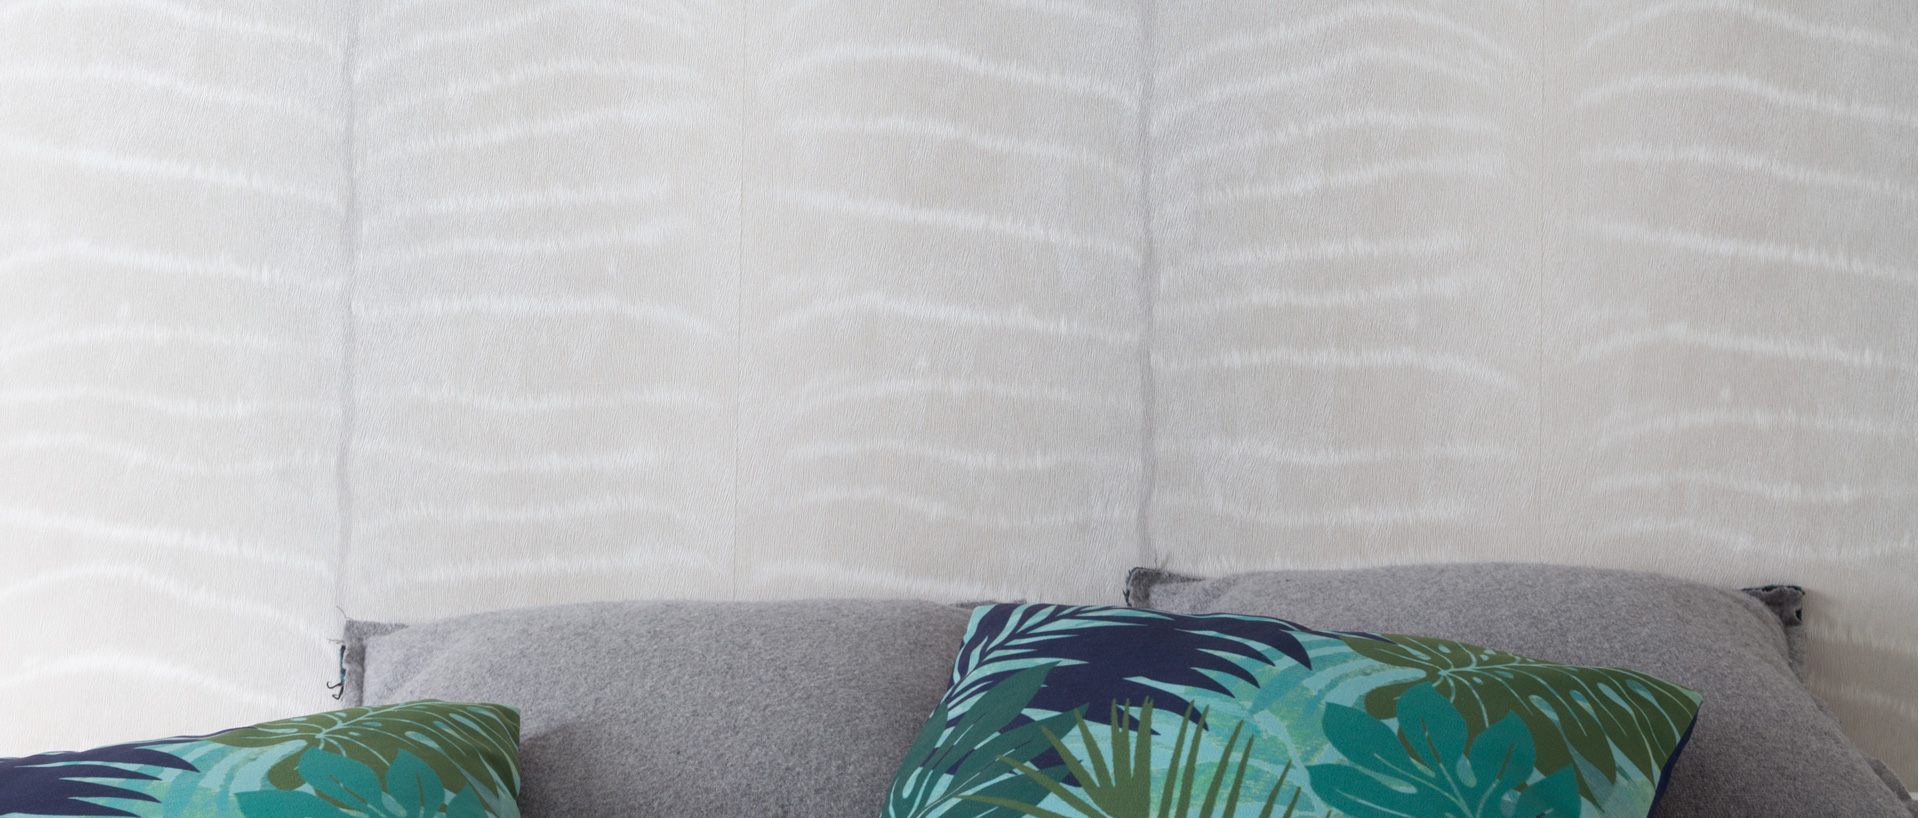
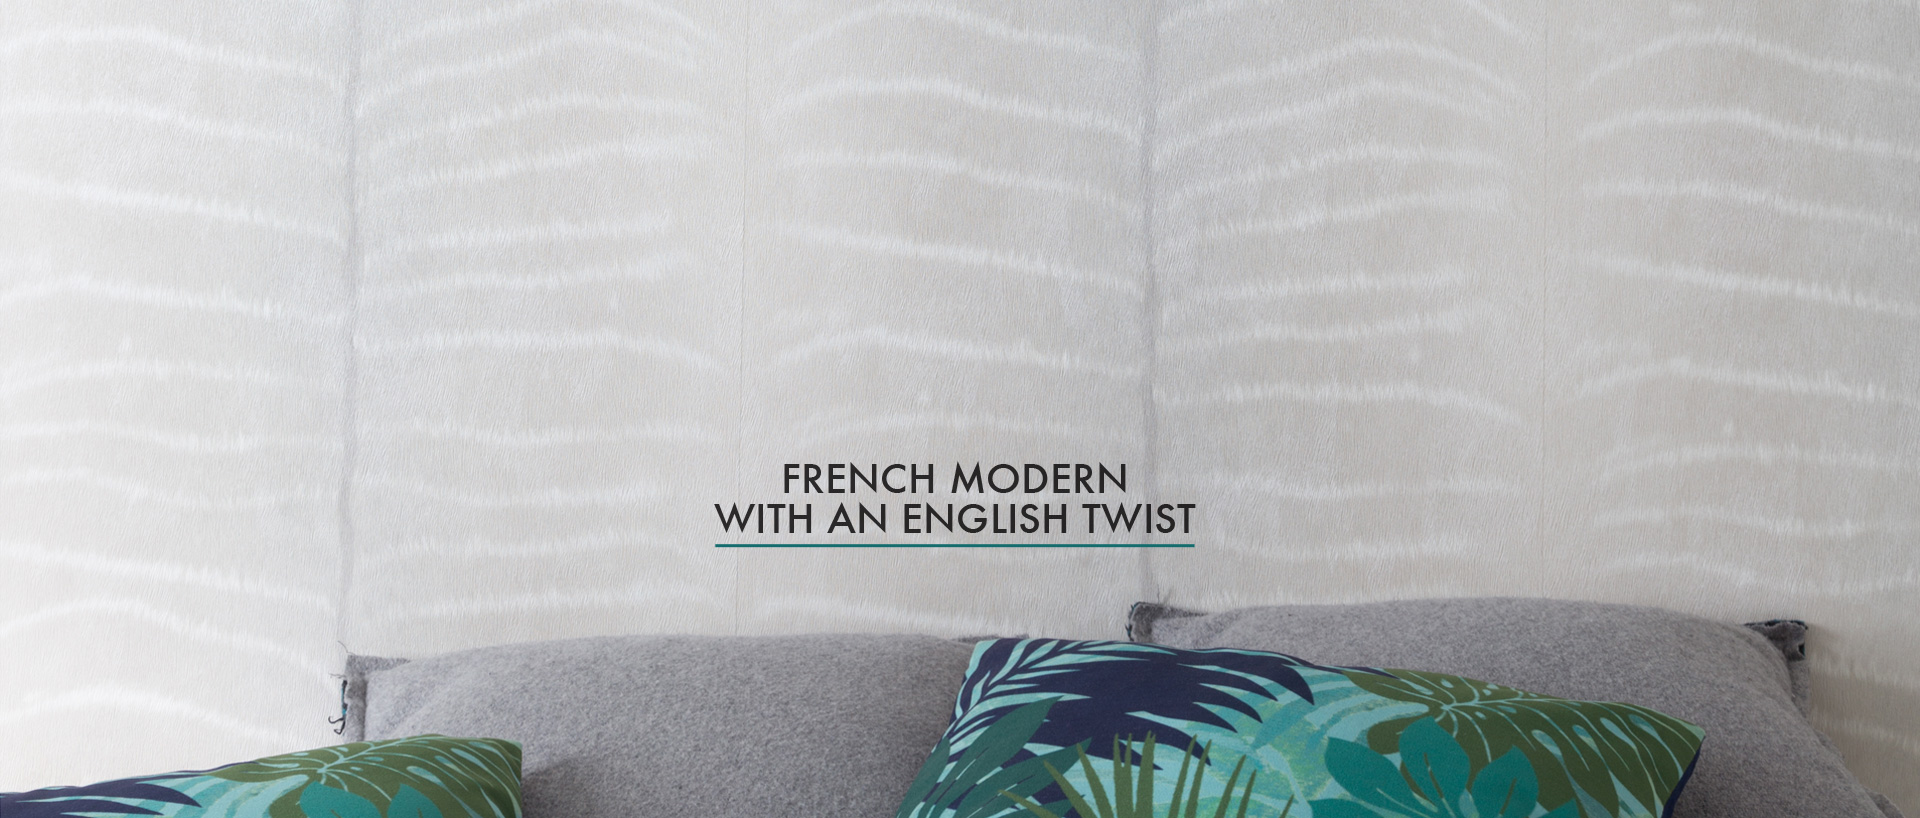
projects

Changed region(s): [[0.0, 0.5501, 1.0, 1.0], [0.9688, 0.9169, 1.0, 1.0]]

diff --git a/app/public/styles/main.css b/app/public/styles/main.css
@@ -462,6 +462,7 @@ footer{ width:100%; float:left;}
 .showcase h5{ color:#cbcbc9; font-size:15px; font-weight:800; letter-spacing:2px;}
 .showcase .shape{font-family:jaapokki; color:#fff; font-size:30px; margin:40px 0;}
 .showcase .portfolio{ width:100%; float:left; margin-top:-158px;}
+.showcase .portfolio .container .row { margin-bottom: 30px;}
 .showcase .portfolio *{-webkit-transition: .15s ease-in-out;-moz-transition: .15s ease-in-out;-ms-transition: .15s ease-in-out; -o-transition: .15s ease-in-out; transition: .15s ease-in-out;}
 .showcase .portfolio-masonry{ width:100%; float:left; position:relative;}
 .showcase .portfolio-masonry li{ width:20%; float:left;}
@@ -572,8 +573,8 @@ footer{ width:100%; float:left;}
 .slider{ width:100%; height:100%; background:#1d1d1d; float:left; position:relative; overflow:hidden; z-index:3;}
 .slider .slider-inner{ width:100%; height:100%; float:left; position:fixed;}
 .slider .banner { width:100%; height:100%; float:left; margin-top:90px;}
-.slider h2{font-size:80px; color:#fff; letter-spacing:20px;}
-.slider h5{font-size:40px; color:#fff; letter-spacing:5px;}
+.slider h2{font-size:80px; color:#fff; letter-spacing:20px; display: none}
+.slider h5{font-size:40px; color:#fff; letter-spacing:5px; display: none}
 .slider .video-bg{ width:100%; height:100%; float:left; position:relative; overflow:hidden;}
 .slider .video-bg:after{content:''; width:100%; height:100%; position:absolute; left:0; top:0; background:rgba(238,54,67,0.8); z-index:2;}
 .slider .video-bg video{ width:100%; min-height:100%; float:left; position:absolute; left:0; top:0; z-index:1;}

diff --git a/app/routes/index.js b/app/routes/index.js
@@ -24,6 +24,25 @@ router.get('/testimonials', (req, res) => {
   res.render('testimonials', {title: 'JLV Design Ltd'});
 });
 
+router.get('/projects', (req, res) => {
+  res.render('projects', {title: 'JLV Design Ltd'});
+});
+
+router.get('/projects/muswellHill1', (req, res) => {
+  res.render('muswellHill1', {title: 'JLV Design Ltd', data: homeData});
+});
+
+router.get('/projects/muswellHill2', (req, res) => {
+  res.render('muswellHill2', {title: 'JLV Design Ltd', data: homeData});
+});
+
+router.get('/projects/gardenOffice', (req, res) => {
+  res.render('gardenOffice', {
+    title: 'JLV Design Ltd',
+    data: homeData
+  });
+});
+
 router.get('/stars', (req, res) => {
   res.render('stars', {
     title: 'JLV Design Ltd',
